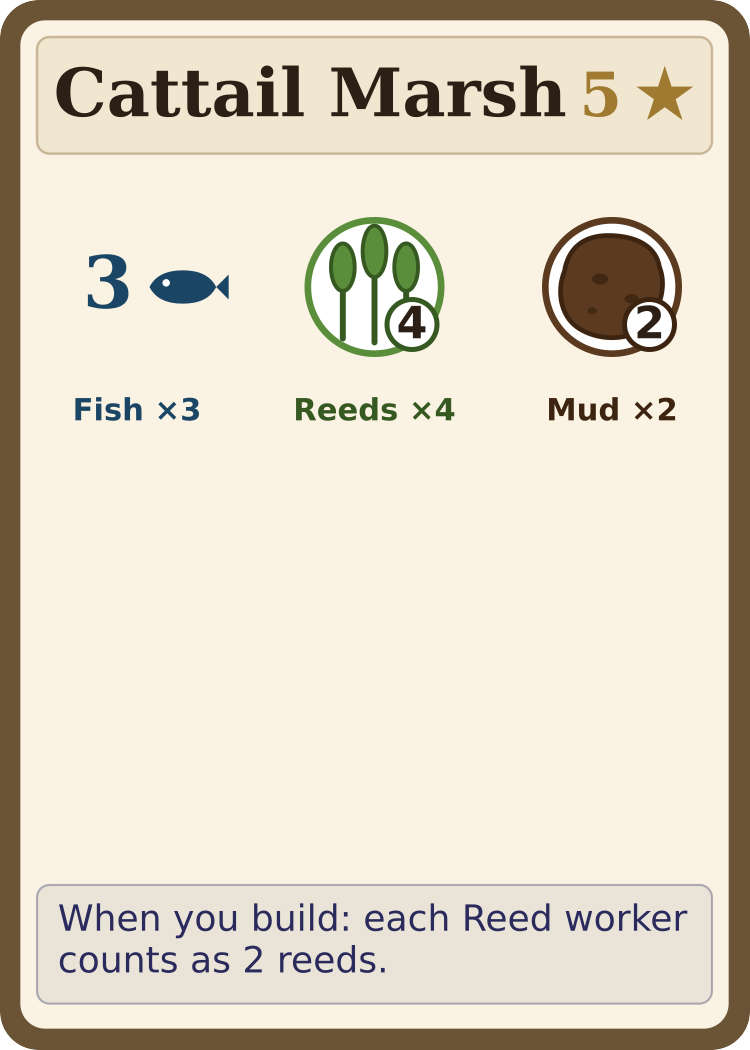
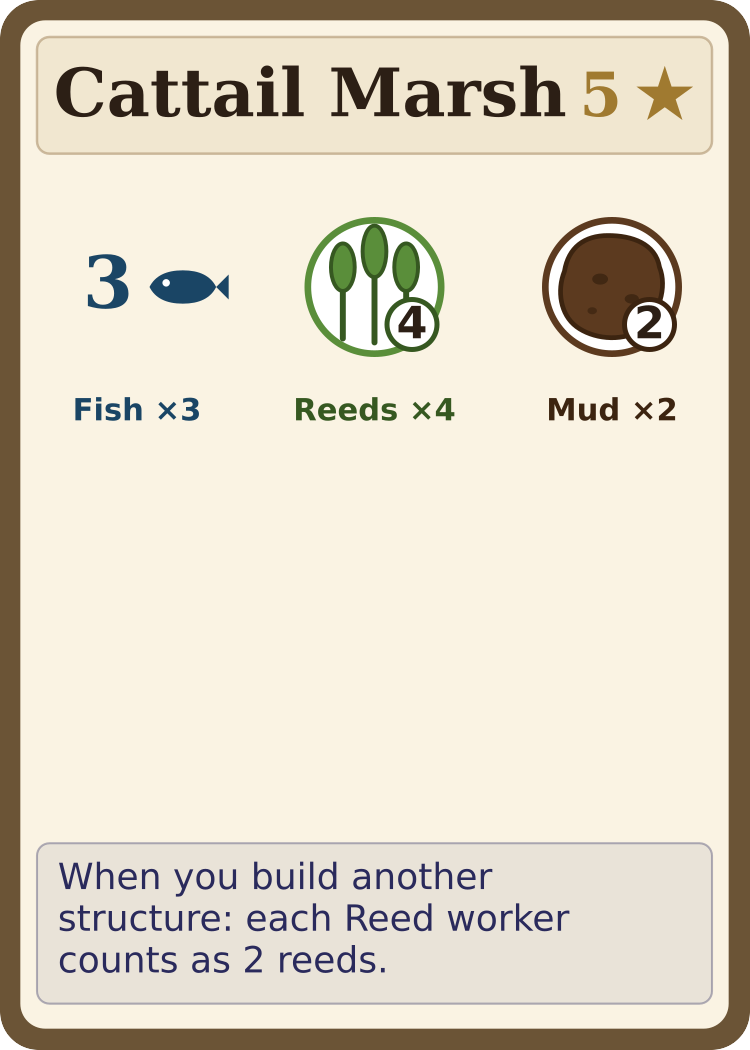
Reed Walkway capped at +8; Cattail Marsh wording clarified
- Reed Walkway: 'End of game: +2 VP per built structure of yours that
  uses Reeds (max +8).' — capped to match Stone Causeway, in sim, web,
  BGA (Rules/Scoring.php + Material.php text), cards.json, and the AI
  hand-valuation heuristics. It was the only engine both uncapped and
  cheap to feed (widest structure band + Kelp Bed discount); it won the
  2026-09-07 playtest at exactly +8. Vine Trellis stays uncapped.
- Cattail Marsh: 'When you build another structure: each Reed worker
  counts as 2 reeds.' — no rules change; kills the recurring misread
  that the discount applies to its own build. Updated in all four
  sources.
- Regenerated both card PNGs; rebuilt rulebook.pdf (embedded Cattail
  thumbnail), strategy-guide.pdf (engine-cap prose: Walkway moved to
  the capped list), release-notes.pdf (two new v0.4 card-change
  entries).

Note for BGA: Material.php text + Scoring.php cap need the usual SVN
sync to reach the live Alpha.

Changed region(s): [[0.0307, 0.7924, 0.92, 0.9143], [0.92, 0.7924, 0.9507, 0.8533]]

diff --git a/rulebook/release-notes.html b/rulebook/release-notes.html
@@ -90,6 +90,20 @@ victims are no longer left empty-handed. Confirmed balance-neutral in 15,000-gam
       everyone aboard gets the bonus on their own first spend, so company is welcome. 15,000-game
       simulations at 2, 3, and 4 players show the minted bonus is almost perfectly count-invariant
       (&asymp;0.7 extra items per player per game) with no distortion of who wins.</li>
+  <li><strong>Reed Walkway, capped.</strong> Old: <em>&ldquo;End of game: +2 VP per built structure
+      of yours that uses Reeds.&rdquo;</em> New: adds <em>&ldquo;<strong>(max +8)</strong>&rdquo;</em>,
+      matching Stone Causeway. Reeds are the deck&rsquo;s widest structure band with a species
+      discount behind them, so the reed engine was the only one whose ceiling was both uncapped
+      <em>and</em> cheap to feed &mdash; it decided a September playtest at exactly +8, so in
+      practice the cap trims only the runaway tail. Vine Trellis stays uncapped: vines have no
+      discount and the thinnest demand, so its ceiling is the vine line&rsquo;s reward for
+      swimming upstream.</li>
+  <li><strong>Cattail Marsh, clarified.</strong> Old: <em>&ldquo;When you build: each Reed worker
+      counts as 2 reeds.&rdquo;</em> New: <em>&ldquo;When you build <strong>another
+      structure</strong>: &hellip;&rdquo;</em> No rules change &mdash; effects never apply to the
+      build that creates them &mdash; but playtesters kept reading the discount as applying to
+      Cattail Marsh itself and planning builds they couldn&rsquo;t afford. The card now says what
+      the rulebook always meant.</li>
   <li><strong>Old Growth&rsquo;s &times;2 survives the Shoreline.</strong> Old: <em>&ldquo;If this
       card is at River 3 or 4, each worker you retrieve yields 2 Logs instead of 1.&rdquo;</em> New:
       <em>&ldquo;If this card is at River 3 or 4 <strong>or on the Shoreline</strong>&hellip;&rdquo;</em>

diff --git a/rulebook/strategy-guide.html b/rulebook/strategy-guide.html
@@ -596,9 +596,9 @@
   Your bias material makes one thing cheap — so build the structures that <em>use</em> it, and aim
   at the card that <strong>pays you for going wide</strong> in it. Five "engine" structures each score
   <strong>at end of game per built structure of yours that uses their material</strong> (and fire a
-  small bonus every time you build with it): <em>Reed Walkway</em> (reeds) and <em>Vine Trellis</em>
-  (vines) pay <strong>+2<span class="vp">★</span></strong> with no cap; <em>Stone Causeway</em>
-  (stones) pays <strong>+2<span class="vp">★</span></strong> up to +8; and the two richest,
+  small bonus every time you build with it): <em>Vine Trellis</em>
+  (vines) pays <strong>+2<span class="vp">★</span></strong> with no cap; <em>Reed Walkway</em> (reeds) and <em>Stone Causeway</em>
+  (stones) pay <strong>+2<span class="vp">★</span></strong> up to +8; and the two richest,
   <em>Clay Vault</em> (clay) at <strong>+3<span class="vp">★</span></strong> up to +12 and
   <em>Burrow Network</em> (mud) at <strong>+3<span class="vp">★</span></strong> up to +9.
   Commit to your material early, then make every build feed its engine.
@@ -632,7 +632,7 @@
       <td>Reed Bed, Cattail Marsh, Granary, Cache Burrow</td>
       <td><strong>Reed Walkway.</strong> <strong>Kelp Bed + Reed Bed</strong> stacks two reed
         discounts; <strong>Cattail Marsh</strong> makes each reed worker count double — so you flood
-        a wide reed tableau cheaply and Reed Walkway scores all of it.</td>
+        a wide reed tableau cheaply and Reed Walkway scores it (up to +8).</td>
     </tr>
     <tr>
       <td><span class="worker muskrat"></span> <strong>Muskrat</strong></td>

diff --git a/bga/modules/php/Material.php b/bga/modules/php/Material.php
@@ -67,7 +67,7 @@ class Material
         9 => ['name' => 'Charcoal Pit', 'cost' => ['clay' => 4, 'logs' => 2], 'time' => 3, 'vp' => '6', 'effect' => 'When you build: 1 of your Clay workers may substitute for any other material.'],
         10 => ['name' => 'Lookout Tree', 'cost' => ['logs' => 5, 'stones' => 2], 'time' => 4, 'vp' => '8', 'effect' => 'Peek at the top of the material deck at any time.'],
         11 => ['name' => 'Pier', 'cost' => ['logs' => 3, 'stones' => 2], 'time' => 3, 'vp' => '0', 'effect' => 'End of game: +2 VP per shoreline card with at least one of your workers (max +6).'],
-        12 => ['name' => 'Cattail Marsh', 'cost' => ['reeds' => 4, 'mud' => 2], 'time' => 3, 'vp' => '5', 'effect' => 'When you build: each Reed worker counts as 2 reeds.'],
+        12 => ['name' => 'Cattail Marsh', 'cost' => ['reeds' => 4, 'mud' => 2], 'time' => 3, 'vp' => '5', 'effect' => 'When you build another structure: each Reed worker counts as 2 reeds.'],
         13 => ['name' => 'Wood Pile', 'cost' => ['logs' => 4], 'time' => 2, 'vp' => '4', 'effect' => 'Once per game (flip card): claim 1 uncovered Log icon from any non-wild river card for 1🐟.'],
         14 => ['name' => 'Heron Roost', 'cost' => ['reeds' => 3, 'vines' => 2], 'time' => 3, 'vp' => '6', 'effect' => 'As an action: pay 1🐟 to replace a Headwaters card with the top of the material deck; shuffle the replaced card back into the deck.'],
         15 => ['name' => 'Pontoon', 'cost' => ['logs' => 4, 'reeds' => 1], 'time' => 3, 'vp' => '4', 'effect' => 'When a jammed auction makes you place fewer workers than your bid, pay 🐟 for one fewer worker.'],
@@ -93,7 +93,7 @@ End of game: +2 VP per built structure of yours that uses Vines.'],
 End of game: +2 VP per built structure of yours that uses Stones (max +8).'],
         30 => ['name' => 'Reed Walkway', 'cost' => ['reeds' => 4, 'mud' => 1], 'time' => 3, 'vp' => '0', 'effect' => 'When you build a structure that uses Reeds: place 1 free worker on a River 1 card.
 
-End of game: +2 VP per built structure of yours that uses Reeds.'],
+End of game: +2 VP per built structure of yours that uses Reeds (max +8).'],
         31 => ['name' => 'Clay Vault', 'cost' => ['clay' => 3, 'vines' => 2], 'time' => 3, 'vp' => '0', 'effect' => 'When you build a structure that uses Clay: peek at the top of the structure deck; you may swap it with 1 card from your hand.
 
 End of game: +3 VP per built structure of yours that uses Clay (max +12).'],

diff --git a/bga/modules/php/Rules/Scoring.php b/bga/modules/php/Rules/Scoring.php
@@ -28,7 +28,7 @@ final class Scoring
         'Vine Ladder'    => [4, 12, 'vines'],
         'Vine Trellis'   => [2, PHP_INT_MAX, 'vines'],
         'Stone Causeway' => [2, 8, 'stones'],
-        'Reed Walkway'   => [2, PHP_INT_MAX, 'reeds'],
+        'Reed Walkway'   => [2, 8, 'reeds'],  // capped +8 [2026-09-20], was uncapped
         'Clay Vault'     => [3, 12, 'clay'],
         'Burrow Network' => [3, 9, 'mud'],
     ];
